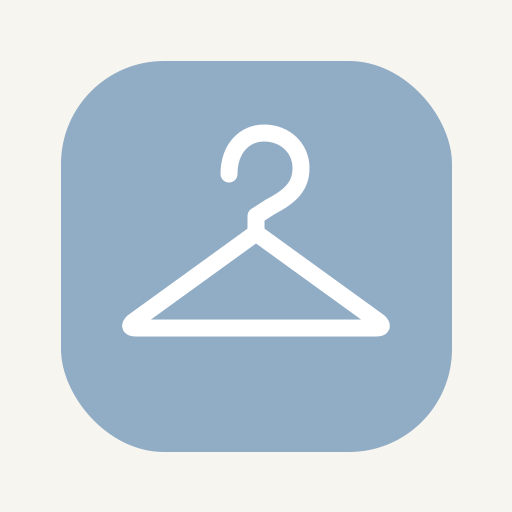
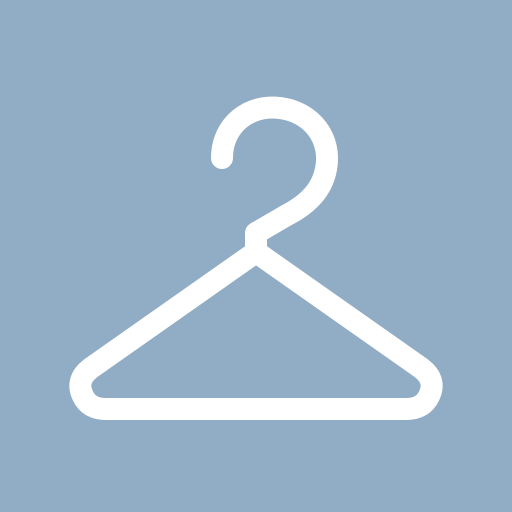
v1.5
1. 修正去背後圖片上飄的問題
2. icon圖片修改

diff --git a/index.html b/index.html
@@ -1,1 +1,1 @@
-<!doctype html><html lang="zh-Hant"><head><meta charset="utf-8"><meta name="viewport" content="width=device-width,initial-scale=1,viewport-fit=cover"><meta name="theme-color" content="#f7f5ef"><meta name="apple-mobile-web-app-capable" content="yes"><meta name="apple-mobile-web-app-status-bar-style" content="default"><title>Smart Wardrobe 智慧穿搭衣櫃</title><link rel="manifest" href="manifest.webmanifest?v=2"><link rel="apple-touch-icon" href="icons/icon-192.png?v=2"><link rel="stylesheet" href="style.css?v=024"></head><body><header class="top"><div><small>MY DAILY STYLE</small><h1>Smart Wardrobe</h1></div><span class="logo">✿</span></header><main id="app"></main><nav class="bottom" aria-label="主要導覽"><button data-page="home">⌂<span>首頁</span></button><button data-page="closet">▦<span>衣櫃</span></button><button data-page="outfits">✧<span>推薦</span></button><button data-page="history">▤<span>紀錄</span></button><button data-page="settings">⚙<span>設定</span></button></nav><dialog id="editor"><form id="itemForm"><h2 id="editorTitle">新增單品</h2><input type="hidden" name="id"><label>名稱<input name="name" required maxlength="80"></label><label>分類<select name="category"><option>上衣</option><option>褲裝</option><option>裙裝</option><option>洋裝</option><option>外套</option><option>鞋子</option><option>帽子</option><option>襪子／褲襪</option><option>飾品</option><option>其他配件</option></select></label><label>顏色<input name="color" placeholder="例如：奶白"></label><label>風格<input name="style" placeholder="例如：日系休閒"></label><label>季節<select name="season"><option value="all">四季</option><option value="warm">溫暖季節</option><option value="cool">涼爽季節</option></select></label><label>狀態<select name="status"><option value="owned">已擁有</option><option value="wishlist">考慮購買</option></select></label><label>照片<input id="photoInput" type="file" accept="image/*"></label><img id="photoPreview" alt="照片預覽" hidden><label>備註<textarea name="notes" rows="2" placeholder="版型、尺寸、穿著限制"></textarea></label><div class="actions"><button type="button" class="secondary" id="cancelEditor">取消</button><button type="submit">儲存</button></div></form></dialog><input id="importFile" type="file" accept="application/json" hidden><script src="app.js?v=024" defer></script></body></html>
+<!doctype html><html lang="zh-Hant"><head><meta charset="utf-8"><meta name="viewport" content="width=device-width,initial-scale=1,viewport-fit=cover"><meta name="theme-color" content="#f7f5ef"><meta name="apple-mobile-web-app-capable" content="yes"><meta name="apple-mobile-web-app-status-bar-style" content="default"><title>Smart Wardrobe 智慧穿搭衣櫃</title><link rel="manifest" href="manifest.webmanifest?v=4"><link rel="apple-touch-icon" href="icons/icon-192.png?v=4"><link rel="stylesheet" href="style.css?v=025"></head><body><header class="top"><div><small>MY DAILY STYLE</small><h1>Smart Wardrobe</h1></div><span class="logo">✿</span></header><main id="app"></main><nav class="bottom" aria-label="主要導覽"><button data-page="home">⌂<span>首頁</span></button><button data-page="closet">▦<span>衣櫃</span></button><button data-page="outfits">✧<span>推薦</span></button><button data-page="history">▤<span>紀錄</span></button><button data-page="settings">⚙<span>設定</span></button></nav><dialog id="editor"><form id="itemForm"><h2 id="editorTitle">新增單品</h2><input type="hidden" name="id"><label>名稱<input name="name" required maxlength="80"></label><label>分類<select name="category"><option>上衣</option><option>褲裝</option><option>裙裝</option><option>洋裝</option><option>外套</option><option>鞋子</option><option>帽子</option><option>襪子／褲襪</option><option>飾品</option><option>其他配件</option></select></label><label>顏色<input name="color" placeholder="例如：奶白"></label><label>風格<input name="style" placeholder="例如：日系休閒"></label><label>季節<select name="season"><option value="all">四季</option><option value="warm">溫暖季節</option><option value="cool">涼爽季節</option></select></label><label>狀態<select name="status"><option value="owned">已擁有</option><option value="wishlist">考慮購買</option></select></label><label>照片<input id="photoInput" type="file" accept="image/*"></label><img id="photoPreview" alt="照片預覽" hidden><label>備註<textarea name="notes" rows="2" placeholder="版型、尺寸、穿著限制"></textarea></label><div class="actions"><button type="button" class="secondary" id="cancelEditor">取消</button><button type="submit">儲存</button></div></form></dialog><input id="importFile" type="file" accept="application/json" hidden><script src="app.js?v=025" defer></script></body></html>

diff --git a/sw.js b/sw.js
@@ -1,1 +1,1 @@
-const CACHE='smart-wardrobe-v024-icon2-20261116';const ASSETS=['./','./index.html','./style.css','./app.js','./manifest.webmanifest','./icons/icon-192.png','./icons/icon-512.png'];self.addEventListener('install',e=>{e.waitUntil(caches.open(CACHE).then(c=>c.addAll(ASSETS)));self.skipWaiting()});self.addEventListener('activate',e=>{e.waitUntil(caches.keys().then(keys=>Promise.all(keys.filter(k=>k!==CACHE).map(k=>caches.delete(k)))));self.clients.claim()});self.addEventListener('fetch',e=>{if(e.request.method!=='GET'||new URL(e.request.url).origin!==self.location.origin)return;e.respondWith(fetch(e.request).then(r=>{if(r.ok){let copy=r.clone();caches.open(CACHE).then(c=>c.put(e.request,copy))}return r}).catch(()=>caches.match(e.request)))})
+const CACHE='smart-wardrobe-v026-20261116';const ASSETS=['./','./index.html','./style.css','./app.js','./manifest.webmanifest','./icons/icon-192.png','./icons/icon-512.png'];self.addEventListener('install',e=>{e.waitUntil(caches.open(CACHE).then(c=>c.addAll(ASSETS)));self.skipWaiting()});self.addEventListener('activate',e=>{e.waitUntil(caches.keys().then(keys=>Promise.all(keys.filter(k=>k!==CACHE).map(k=>caches.delete(k)))));self.clients.claim()});self.addEventListener('fetch',e=>{if(e.request.method!=='GET'||new URL(e.request.url).origin!==self.location.origin)return;e.respondWith(fetch(e.request).then(r=>{if(r.ok){let copy=r.clone();caches.open(CACHE).then(c=>c.put(e.request,copy))}return r}).catch(()=>caches.match(e.request)))})

diff --git a/style.css b/style.css
@@ -8,3 +8,7 @@
 
 /* v0.2.4 AI preview */
 .ai-preview-dialog{border:0;border-radius:18px;padding:0;max-width:min(94vw,760px);width:94vw;max-height:90dvh;overflow:auto;box-shadow:0 18px 65px #0004}.ai-preview-dialog::backdrop{background:#142536a8}.ai-preview-inner{padding:20px}.ai-compare{display:grid;grid-template-columns:1fr 1fr;gap:12px;margin:14px 0}.ai-compare figure{margin:0;min-width:0}.ai-compare figure>img,.ai-checker img{display:block;width:100%;height:230px;object-fit:contain}.ai-checker{background-color:#eee;background-image:linear-gradient(45deg,#ccc 25%,transparent 25%),linear-gradient(-45deg,#ccc 25%,transparent 25%),linear-gradient(45deg,transparent 75%,#ccc 75%),linear-gradient(-45deg,transparent 75%,#ccc 75%);background-size:20px 20px;background-position:0 0,0 10px,10px -10px,-10px 0}.ai-compare figcaption{text-align:center;font-size:13px;margin-top:6px}.ai-preview-dialog .actions{display:flex;justify-content:flex-end;gap:8px}@media(max-width:430px){.ai-preview-inner{padding:12px}.ai-compare img,.ai-checker img{height:190px}}
+
+/* v0.2.5: keep full garments visible in wardrobe thumbnails */
+.card .item-img img.item-img{object-fit:contain;object-position:center center;width:100%;height:100%;display:block;background:#f4f5f5;}
+.card .item-img{overflow:hidden;background:#f4f5f5;}

diff --git a/README.md b/README.md
@@ -1,3 +1,7 @@
+## v0.2.6 Icon 修正
+
+將 App Icon 改成全版霧藍底、白色衣架線條，不含奶油白外框或預先圓角；更新 iOS 主畫面圖示連結與 PWA 快取。其餘功能沿用 v0.2.5。
+
 # Smart Wardrobe v0.2.2 — 示意圖及純色背景去背
 
 ## 主要更新
@@ -32,3 +36,10 @@
 - 模型來源為第三方；雖然推論設計為本機執行，仍請依需求評估第三方程式與模型下載的隱私風險。
 - 這是 AI 語意去背而非「指定哪一件衣物」的互動式分割；同一張照片出現其他外套時可能一起保留。
 - 保留 v0.2.3 單件衣物移除功能，資料庫版本維持 2。更新前請匯出 JSON 備份。
+
+
+## v0.2.5
+- 修正衣櫃縮圖裁切問題：完整顯示長褲等衣物（contain），不改變原始圖片。
+- 重新繪製簡潔白線衣架 Icon，提供 SVG 與 192/512 PNG。
+- 保留 IMG.LY 瀏覽器端 AI 去背、單件移除、預覽與還原原圖。
+- 更新 PWA 資源版本。
